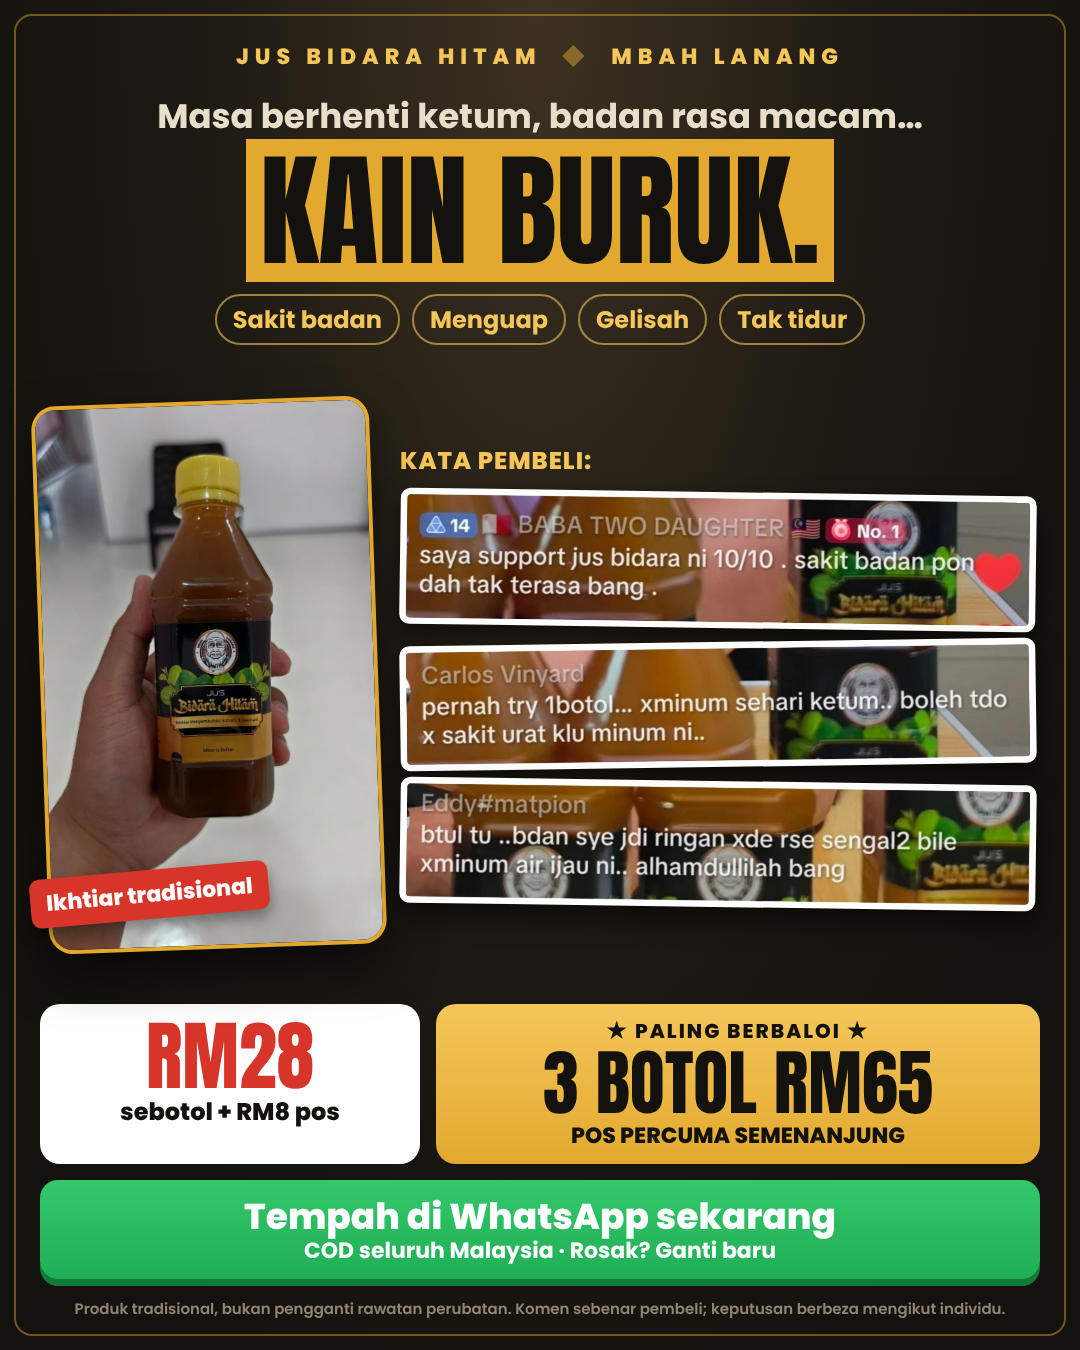
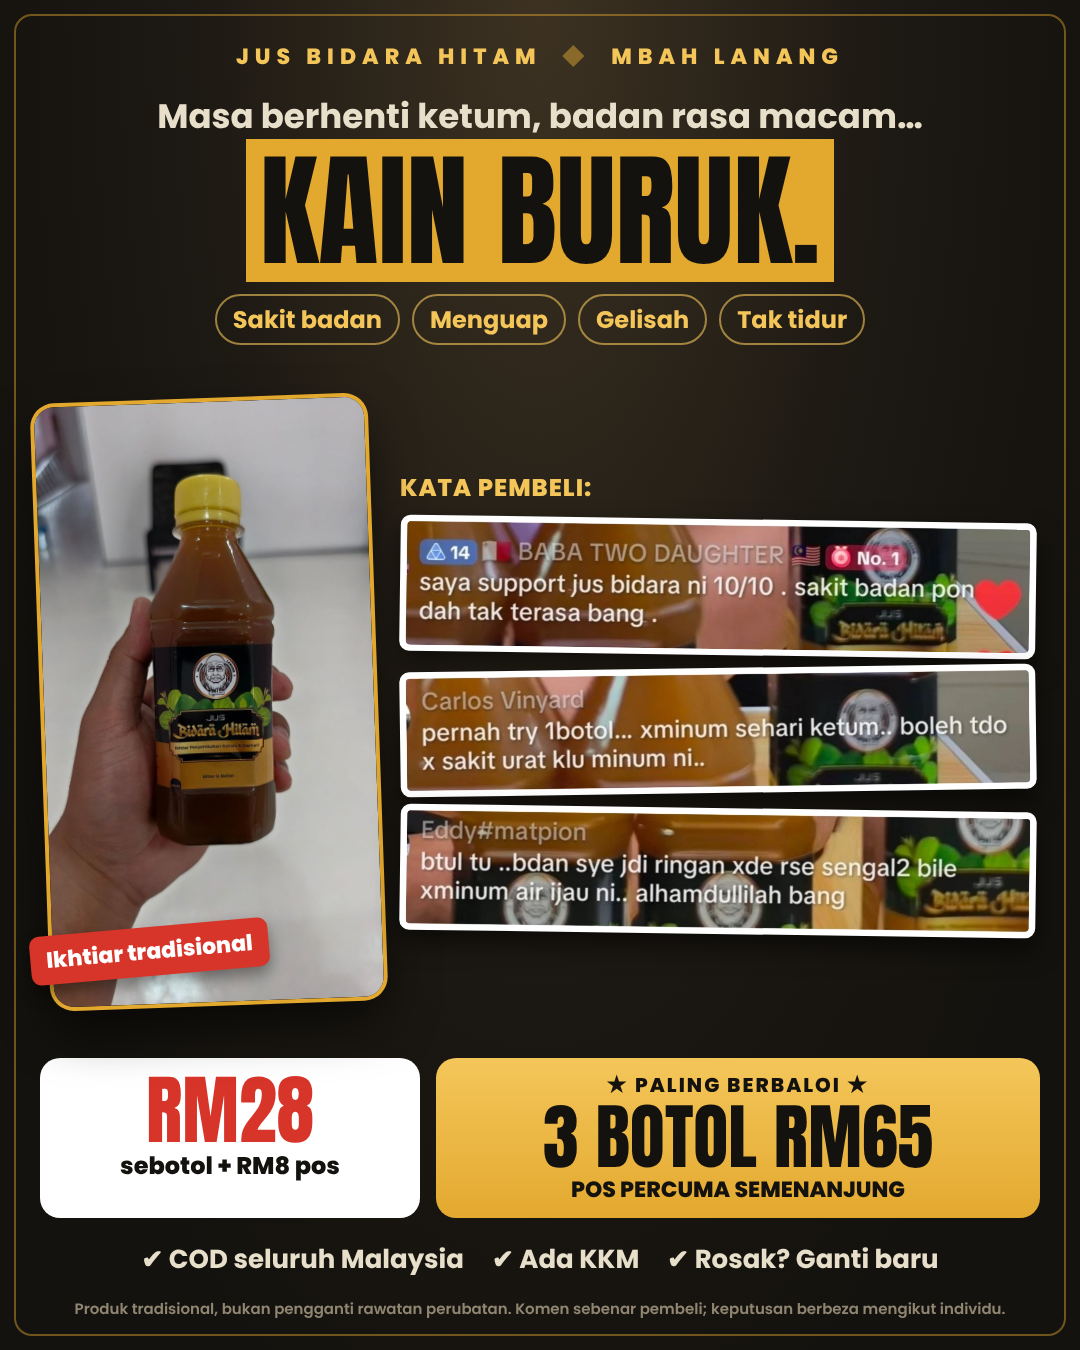
Meta poster: remove green CTA button
Claude-Session: https://claude.ai/code/session_01WNDg5CVQaZ8heWyLhLUpEr

diff --git a/poster-meta/sumber/meta.html b/poster-meta/sumber/meta.html
@@ -20,7 +20,7 @@
   .chips span { border:2px solid rgba(244,198,90,.6); color:var(--gold-hi); font-weight:700; font-size:24px; padding:6px 16px; border-radius:999px; }
   .mid { flex:1; display:flex; gap:26px; align-items:center; padding:24px 44px 10px; min-height:0; }
   .prod { flex:0 0 330px; position:relative; }
-  .prod img { display:block; width:330px; height:540px; object-fit:cover; object-position:50% 45%; border-radius:20px; box-shadow:0 0 0 4px var(--gold), 0 24px 50px rgba(0,0,0,.6); transform:rotate(-2deg); }
+  .prod img { display:block; width:330px; height:600px; object-fit:cover; object-position:50% 45%; border-radius:20px; box-shadow:0 0 0 4px var(--gold), 0 24px 50px rgba(0,0,0,.6); transform:rotate(-2deg); }
   .prod .tag { position:absolute; left:-14px; bottom:26px; background:var(--red); color:#fff; font-weight:800; font-size:22px; padding:8px 16px; border-radius:10px; transform:rotate(-5deg); box-shadow:0 8px 16px rgba(0,0,0,.4); }
   .testi { flex:1; min-width:0; display:flex; flex-direction:column; gap:14px; }
   .testi .lbl { font-weight:800; font-size:24px; color:var(--gold-hi); letter-spacing:1px; }
@@ -38,6 +38,7 @@
   .offer .best span { font-weight:800; font-size:22px; }
   .cta { margin:16px 40px 0; background:linear-gradient(180deg, #34c86b, var(--wa)); border-radius:18px; padding:16px 20px; text-align:center; font-weight:800; font-size:36px; line-height:1.15; box-shadow:0 7px 0 #127a3a; }
   .cta small { display:block; font-size:22px; font-weight:700; }
+  .perks { display:flex; justify-content:center; gap:28px; margin:22px 40px 0; font-weight:700; font-size:26px; color:#e8dfcb; }
   .disc { text-align:center; font-size:15px; font-weight:600; color:#8f8571; margin:18px 40px 30px; }
 </style>
 </head>
@@ -60,7 +61,7 @@
     <div class="one"><b>RM28</b><span>sebotol + RM8 pos</span></div>
     <div class="best"><div class="rib">★ PALING BERBALOI ★</div><b>3 BOTOL RM65</b><span>POS PERCUMA SEMENANJUNG</span></div>
   </div>
-  <div class="cta">Tempah di WhatsApp sekarang<small>COD seluruh Malaysia · Rosak? Ganti baru</small></div>
+  <div class="perks"><span>✔ COD seluruh Malaysia</span><span>✔ Ada KKM</span><span>✔ Rosak? Ganti baru</span></div>
   <div class="disc">Produk tradisional, bukan pengganti rawatan perubatan. Komen sebenar pembeli; keputusan berbeza mengikut individu.</div>
 </div>
 </body>
